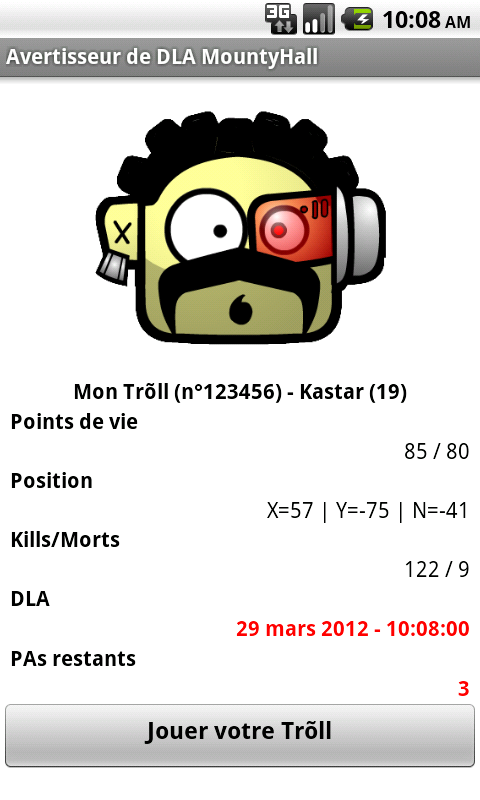
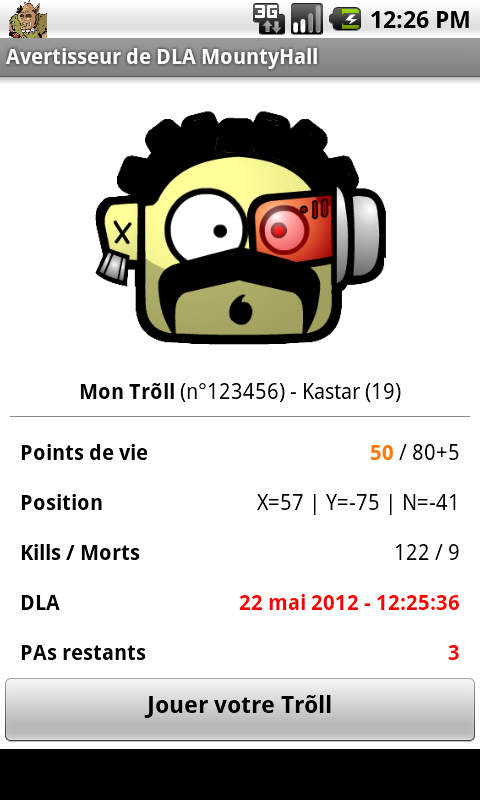
Update screenshots

diff --git a/src/org/zoumbox/mh_dla_notifier/sp/PublicScriptsProxy.java b/src/org/zoumbox/mh_dla_notifier/sp/PublicScriptsProxy.java
@@ -100,7 +100,7 @@ public class PublicScriptsProxy {
 
     protected static PublicScriptResponse doMockHttpGET(String url) {
         String rawResult;
-        String dla = "2012-05-21 17:00:00";
+        String dla = "2012-05-22 12:25:36";
         int pa = 3;
         if (url.contains("SP_Profil2.php")) {
             rawResult = "123456;57;-75;-41;50;80;" + pa + ";" + dla + ";8;4;13;4;4;6;360;361;0;5;0;0;0;0;0;585;0;1;0";
